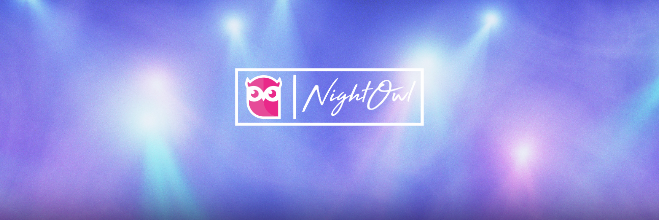
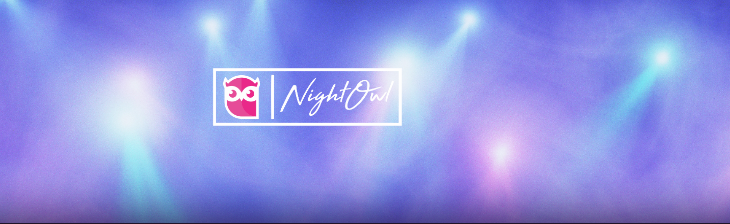
Adjusted image size

diff --git a/index.html b/index.html
@@ -48,7 +48,7 @@
             <h2 class="headers">My Work</h2>                
             <div class="cards"> 
                 <div class="front-end workcard big-card">
-                    <div class="projects"> <!-- For now, Front-End project links to my github -->
+                    <div class="projects nightOwl"> 
                         <a href="https://victoriamcn.github.io/NightOwl/">
                             <h3>NightOwl</h3>
                             <p>Find the best events and restaurants</p>

diff --git a/assets/css/style.css b/assets/css/style.css
@@ -174,7 +174,7 @@ nav {
 .front-end {
     background-image: url(../images/NightOwl-Home.html.png);
     flex: 2 1 100%;
-    min-height: 400px;
+    min-height: 300px;
 }
 
 .back-end{
